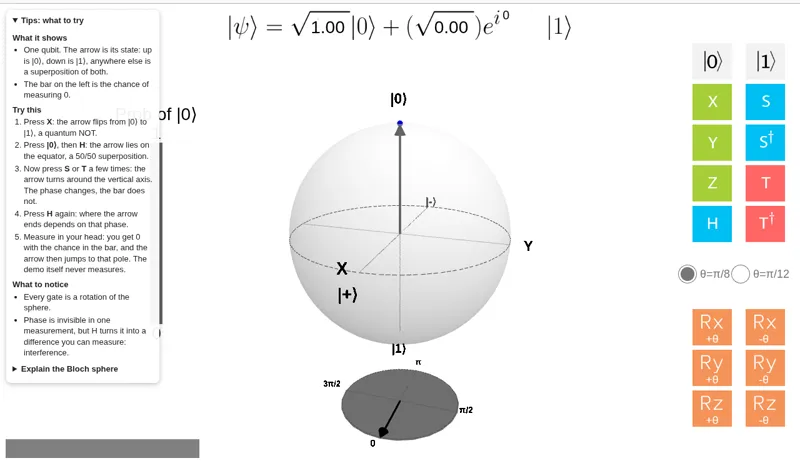
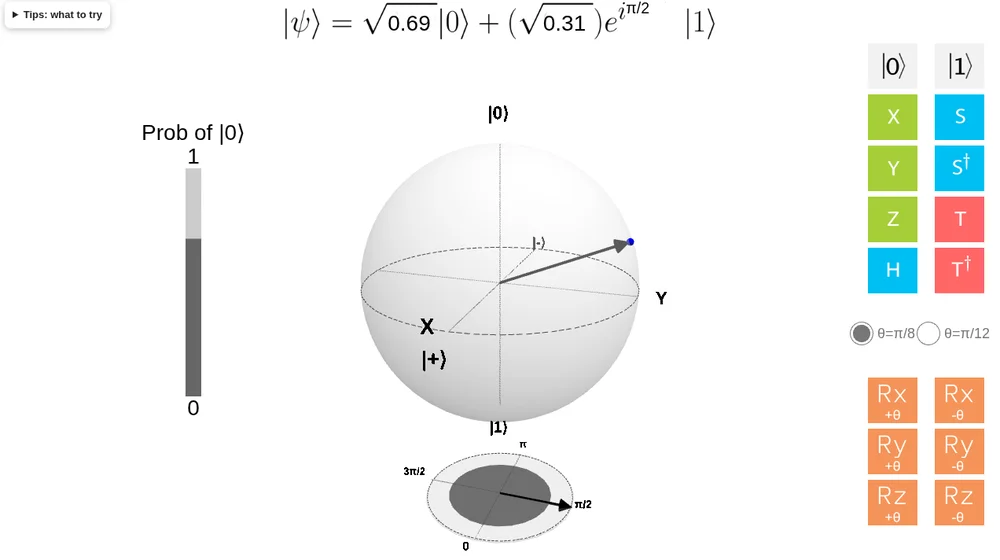
Bloch Sphere screenshot: tips collapsed, a state worth seeing
Retaken on the Pi 5 with the tips folded away and the qubit after H and
two Rx rotations (formula, probability bar and phase all show values).
Same file name, so the demo page and the homepage tile both update.

Claude-Session: https://claude.ai/code/session_01NaRLeVCx3uhVyGTNxFksWw

diff --git a/content/03-quantum-computing-demos/bloch-sphere.md b/content/03-quantum-computing-demos/bloch-sphere.md
@@ -4,7 +4,7 @@ An interactive Bloch sphere in your browser: click a gate, watch the qubit move.
 It is the quickest way to build intuition for what quantum gates actually *do* to
 a single qubit.
 
-<img src="/demo-screenshots/bloch-sphere.webp" width="800" height="463" loading="lazy" alt="Grokking the Bloch Sphere on the Pi: the qubit as an arrow on the sphere, gate buttons and tips on what to try" className="media-image" />
+<img src="/demo-screenshots/bloch-sphere.webp" width="1000" height="560" loading="lazy" alt="Grokking the Bloch Sphere on the Pi: the qubit as an arrow on the sphere after H and two Rx rotations, with its formula, probability bar, phase and gate buttons" className="media-image" />
 
 **Needs:** network on first start · **Start it with:** `rq_demo_run.sh grok-bloch`
 

diff --git a/content/index.md b/content/index.md
@@ -67,7 +67,7 @@ LED panel. Made for classrooms, meetups, booths and anyone curious.
 
 <div className="feature-grid">
   <a className="feature" href="/03-quantum-computing-demos/01-demo-list/">
-    <img src="/demo-screenshots/bloch-sphere.webp" width="800" height="463" loading="lazy" alt="Grokking the Bloch Sphere: a qubit as an arrow on a sphere, gate buttons and tips on what to try" />
+    <img src="/demo-screenshots/bloch-sphere.webp" width="1000" height="560" loading="lazy" alt="Grokking the Bloch Sphere: a qubit as an arrow on a sphere, with its formula and gate buttons" />
     <strong>Demos and games</strong>
     <span>Bloch sphere, quantum coin game, Quantum Lights Out, Qoffee-Maker and more, each one click away.</span>
   </a>
